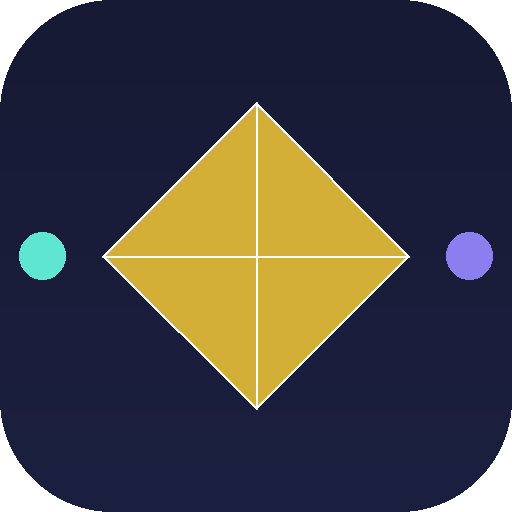
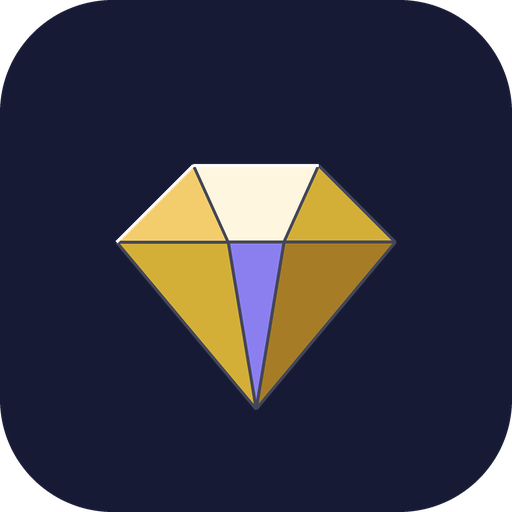
v4.7: diamanti veri, frase del giorno, ordine appuntamenti, fix fuso orario

Changed region(s): [[0.1875, 0.1875, 0.8125, 0.8125], [0.875, 0.4375, 0.9688, 0.5625], [0.0312, 0.4375, 0.125, 0.5625]]

diff --git a/index.html b/index.html
@@ -69,13 +69,15 @@
   .sparkle.teal{ background:var(--teal); box-shadow:0 0 6px var(--teal); }
   @keyframes twinkle{ 0%,100%{opacity:0.12; transform:scale(0.6);} 50%{opacity:1; transform:scale(1.3);} }
   .diamond{
-    position:absolute; background:linear-gradient(135deg, #ffffff 0%, var(--gold-soft) 45%, var(--violet) 100%);
-    box-shadow:0 0 7px rgba(255,255,255,0.5); opacity:0; animation:diamondFade ease-in-out infinite;
+    position:absolute; background:linear-gradient(150deg, #ffffff 0%, var(--gold-soft) 42%, var(--gold) 68%, var(--violet) 100%);
+    clip-path: polygon(30% 6%, 70% 6%, 100% 36%, 50% 100%, 0% 36%);
+    filter: drop-shadow(0 0 4px rgba(255,255,255,0.55));
+    opacity:0; animation:diamondFade ease-in-out infinite;
     pointer-events:none;
   }
   @keyframes diamondFade{
-    0%,100%{ opacity:0; transform:rotate(45deg) scale(0.3); }
-    45%,55%{ opacity:0.85; transform:rotate(45deg) scale(1); }
+    0%,100%{ opacity:0; transform:scale(0.3); }
+    45%,55%{ opacity:0.88; transform:scale(1); }
   }
 
   .app{ position:relative; z-index:1; display:flex; min-height:100vh; }
@@ -134,6 +136,7 @@
   header.topbar{ display:flex; align-items:center; justify-content:space-between; margin-bottom:22px; gap:14px; flex-wrap:wrap; }
   header.topbar h1{ margin:0; font-size:1.5rem; font-weight:800; letter-spacing:0.2px; }
   header.topbar .sub{ color:var(--grey-dim); font-size:0.85rem; margin-top:2px; }
+  .day-quote{ color:var(--gold-soft); font-size:0.8rem; margin-top:5px; font-style:italic; opacity:0.92; max-width:520px; }
   .search-trigger{
     display:flex; align-items:center; gap:8px; padding:9px 14px; border-radius:11px; background:var(--glass);
     border:1px solid var(--glass-brd); color:var(--grey-dim); font-size:0.82rem; cursor:pointer; min-width:220px;
@@ -207,6 +210,17 @@
     backdrop-filter:blur(6px);
   }
   .day-head .cnt{ color:var(--grey-dim); font-weight:600; font-size:0.75rem; }
+
+  .past-wrap{ margin-top:14px; border-top:1px dashed var(--line); padding-top:10px; }
+  .past-toggle{
+    width:100%; display:flex; align-items:center; justify-content:center; gap:8px;
+    background:var(--glass); border:1px solid var(--glass-brd); border-radius:10px; padding:9px 12px;
+    color:var(--grey-dim); font-size:0.8rem; font-weight:700; cursor:pointer; transition:all .15s ease;
+  }
+  .past-toggle:hover{ background:var(--gold-dim); color:var(--gold-soft); }
+  .past-toggle .chev{ transition:transform .15s ease; display:inline-block; }
+  .past-toggle.open .chev{ transform:rotate(180deg); }
+  .past-body{ margin-top:8px; opacity:0.82; }
 
   .appt-row{
     display:grid; grid-template-columns:64px 1.35fr 1.05fr 1.25fr auto auto auto auto; gap:12px; align-items:center;
@@ -489,7 +503,7 @@
 <div class="app">
   <aside>
     <div class="brand">
-      <div class="mark">✨</div>
+      <div class="mark">💎</div>
       <div><b>Perfect Nails Accademy</b><span>Gestionale per onicotecnica</span></div>
     </div>
     <nav>
@@ -515,6 +529,7 @@
       <div>
         <h1>Bentornata ✨</h1>
         <div class="sub" id="today-label"></div>
+        <div class="day-quote" id="day-quote"></div>
       </div>
       <div class="search-trigger" id="open-cmdk">🔍 Cerca clienti, appuntamenti…<kbd>⌘K</kbd></div>
     </header>
@@ -727,7 +742,6 @@ for(let i=0;i<20;i++){
   d.className = 'diamond';
   const size = 6 + Math.random()*6; // 6-12px, non più grande di una "O"
   d.style.width = d.style.height = size+'px';
-  d.style.borderRadius = size>9 ? '2px' : '1.5px';
   d.style.left = Math.random()*100+'%';
   d.style.top = Math.random()*100+'%';
   d.style.animationDuration = (4.5+Math.random()*4)+'s';
@@ -736,6 +750,50 @@ for(let i=0;i<20;i++){
 }
 
 document.getElementById('today-label').textContent = new Date().toLocaleDateString('it-IT', {weekday:'long', day:'numeric', month:'long', year:'numeric'});
+
+// -------- piccola frase del giorno: un pensiero gentile, non richiesto esplicitamente ma pensato --------
+// -------- per accompagnare l'inizio della giornata senza esagerare — cambia ogni giorno, stessa per tutto il giorno --------
+const FRASI_GIORNO = [
+  "Ogni mano che curi oggi porta via un po' di stanchezza e lascia un sorriso.",
+  "Le piccole attenzioni sono quelle che le clienti ricordano di più.",
+  "Un buon lavoro non ha bisogno di fretta: prenditi il tuo tempo, oggi.",
+  "Ogni giornata è un'occasione per far sentire speciale qualcuna.",
+  "La cura che metti nei dettagli si vede, anche quando non lo dici.",
+  "Respira, sorridi, e comincia: il resto viene da sé.",
+  "Chi si prende cura degli altri merita di prendersi cura anche di sé.",
+  "Le mani ben curate raccontano quanto ci tieni: continua così.",
+  "Un passo alla volta, un appuntamento alla volta: va tutto bene.",
+  "La costanza che metti ogni giorno è quella che fa crescere Perfect Nails Accademy.",
+  "Oggi qualcuna uscirà da qui più sicura di sé grazie a te.",
+  "Le giornate piene sono la prova che stai costruendo qualcosa di bello.",
+  "Anche i piccoli gesti — un consiglio, un sorriso — fanno la differenza.",
+  "Sei tu a dare ritmo alla giornata: parti con calma.",
+  "Un lavoro fatto con cura non passa mai inosservato.",
+  "Le clienti tornano per come le fai sentire, non solo per le mani.",
+  "Oggi va bene anche solo fare del proprio meglio, senza strafare.",
+  "La pazienza che metti nei dettagli è il tuo vero talento.",
+  "Ogni cliente che richiami è un pensiero gentile in più.",
+  "Piccoli rituali, grandi risultati: continua a coltivarli.",
+  "Chi cura le mani degli altri ha mani d'oro: non dimenticarlo.",
+  "Anche una giornata tranquilla serve: respira e organizza con calma.",
+  "Il tuo lavoro rende più bella la giornata di qualcun altro. Non è poco.",
+  "Le basi solide di oggi sono i risultati belli di domani.",
+  "Un sorriso sincero vale più di qualsiasi decorazione.",
+  "Sei arrivata fin qui costruendo tutto con le tue mani: sii fiera.",
+  "Oggi come sempre: cura, calma e un pizzico di magia.",
+  "Le clienti affezionate si costruiscono un appuntamento alla volta.",
+  "Non serve essere perfette, basta essere presenti — e tu lo sei.",
+  "La qualità che offri oggi è il ricordo che resta domani.",
+  "Piccoli progressi ogni giorno: è così che si cresce davvero.",
+  "Prenditi un momento per te prima di iniziare: te lo meriti."
+];
+function fraseDelGiorno(){
+  const oggi = new Date();
+  const inizioAnno = new Date(oggi.getFullYear(), 0, 0);
+  const giornoAnno = Math.floor((oggi - inizioAnno) / 86400000);
+  return FRASI_GIORNO[giornoAnno % FRASI_GIORNO.length];
+}
+document.getElementById('day-quote').textContent = '✨ ' + fraseDelGiorno();
 
 // -------- tabs --------
 document.querySelectorAll('.nav-btn').forEach(btn=>{
@@ -897,41 +955,74 @@ function renderAgenda(){
   }
   list.style.display='block'; week.style.display='none'; day.style.display='none';
   list.innerHTML = '';
-  const filtered = filtraAppuntamenti().sort((a,b)=> (a.data+a.ora).localeCompare(b.data+b.ora));
+  const filtered = filtraAppuntamenti();
+  const todayIso = isoDate(new Date());
+  // in arrivo: da oggi in poi, dal più vicino (prossimo) in poi. passati: sotto, ripiegati, dal più recente indietro nel tempo.
+  const upcoming = filtered.filter(a=> a.data >= todayIso).sort((a,b)=> (a.data+a.ora).localeCompare(b.data+b.ora));
+  const past = filtered.filter(a=> a.data < todayIso).sort((a,b)=> (b.data+b.ora).localeCompare(a.data+a.ora));
 
-  const groups = {};
-  filtered.forEach(a=>{ (groups[a.data] = groups[a.data]||[]).push(a); });
-
-  Object.keys(groups).sort().forEach(dateKey=>{
-    const items = groups[dateKey];
-    const dayLabel = dateKey ? new Date(dateKey+'T00:00:00').toLocaleDateString('it-IT', {weekday:'long', day:'numeric', month:'long'}) : 'Senza data';
-    const dg = document.createElement('div');
-    dg.className='day-group';
-    dg.innerHTML = `<div class="day-head">${dayLabel} <span class="cnt">${items.length} appuntamento/i</span></div>`;
-    items.forEach(a=>{
-      const realIdx = appuntamenti.indexOf(a);
-      const cliente = trovaClientePerTel(a.tel);
-      const blDot = cliente && cliente.blacklisted ? `<span class="bl-dot" title="Lista nera: disdette last-minute">⚫</span>` : '';
-      const row = document.createElement('div');
-      row.className='appt-row';
-      row.style.borderLeft = `3px solid ${opColor(a.operatrice)}`;
-      row.innerHTML = `
-        <div class="appt-time">${a.ora}<small style="color:${opColor(a.operatrice)}">${a.operatrice||'—'}</small></div>
-        <div class="appt-client"><b>${a.nome} ${a.cognome}</b>${blDot}${a.note?`<div class="note">${a.note}</div>`:''}</div>
-        <div class="appt-tel">📞 ${a.tel}</div>
-        <div class="appt-serv">${a.servizio}</div>
-        <div class="prom-wrap">
-          <span class="prom ${promClass(a.prom3)}" data-idx="${realIdx}" data-field="prom3">3gg · ${a.prom3}</span>
-          <span class="prom ${promClass(a.prom1)}" data-idx="${realIdx}" data-field="prom1">1gg · ${a.prom1}</span>
-        </div>
-        <span class="badge ${statoClass(a.stato)}" data-stato-idx="${realIdx}" title="Clicca per cambiare stato">${a.stato}</span>
-        <button class="icon-btn edit" data-edit="${realIdx}" title="Modifica">✏</button>
-        <button class="icon-btn" data-del="${realIdx}" title="Elimina">🗑</button>
-      `;
-      dg.appendChild(row);
+  function buildDayGroups(items, showYear){
+    const frag = document.createDocumentFragment();
+    const groups = {};
+    items.forEach(a=>{ (groups[a.data] = groups[a.data]||[]).push(a); });
+    const fmtOpts = showYear
+      ? {weekday:'long', day:'numeric', month:'long', year:'numeric'}
+      : {weekday:'long', day:'numeric', month:'long'};
+    Object.keys(groups).sort().forEach(dateKey=>{
+      const dayItems = groups[dateKey];
+      const dayLabel = dateKey ? new Date(dateKey+'T00:00:00').toLocaleDateString('it-IT', fmtOpts) : 'Senza data';
+      const dg = document.createElement('div');
+      dg.className='day-group';
+      dg.innerHTML = `<div class="day-head">${dayLabel} <span class="cnt">${dayItems.length} appuntamento/i</span></div>`;
+      dayItems.forEach(a=>{
+        const realIdx = appuntamenti.indexOf(a);
+        const cliente = trovaClientePerTel(a.tel);
+        const blDot = cliente && cliente.blacklisted ? `<span class="bl-dot" title="Lista nera: disdette last-minute">⚫</span>` : '';
+        const row = document.createElement('div');
+        row.className='appt-row';
+        row.style.borderLeft = `3px solid ${opColor(a.operatrice)}`;
+        row.innerHTML = `
+          <div class="appt-time">${a.ora}<small style="color:${opColor(a.operatrice)}">${a.operatrice||'—'}</small></div>
+          <div class="appt-client"><b>${a.nome} ${a.cognome}</b>${blDot}${a.note?`<div class="note">${a.note}</div>`:''}</div>
+          <div class="appt-tel">📞 ${a.tel}</div>
+          <div class="appt-serv">${a.servizio}</div>
+          <div class="prom-wrap">
+            <span class="prom ${promClass(a.prom3)}" data-idx="${realIdx}" data-field="prom3">3gg · ${a.prom3}</span>
+            <span class="prom ${promClass(a.prom1)}" data-idx="${realIdx}" data-field="prom1">1gg · ${a.prom1}</span>
+          </div>
+          <span class="badge ${statoClass(a.stato)}" data-stato-idx="${realIdx}" title="Clicca per cambiare stato">${a.stato}</span>
+          <button class="icon-btn edit" data-edit="${realIdx}" title="Modifica">✏</button>
+          <button class="icon-btn" data-del="${realIdx}" title="Elimina">🗑</button>
+        `;
+        dg.appendChild(row);
+      });
+      frag.appendChild(dg);
     });
-    list.appendChild(dg);
-  });
+    return frag;
+  }
+
+  list.appendChild(buildDayGroups(upcoming, false));
+
+  if(past.length){
+    const wrap = document.createElement('div');
+    wrap.className = 'past-wrap';
+    const toggle = document.createElement('button');
+    toggle.type = 'button';
+    toggle.className = 'past-toggle';
+    toggle.innerHTML = `🕓 Appuntamenti passati (${past.length}) <span class="chev">▾</span>`;
+    const pastBody = document.createElement('div');
+    pastBody.className = 'past-body';
+    pastBody.style.display = 'none';
+    pastBody.appendChild(buildDayGroups(past, true));
+    toggle.addEventListener('click', ()=>{
+      const isOpen = pastBody.style.display !== 'none';
+      pastBody.style.display = isOpen ? 'none' : 'block';
+      toggle.classList.toggle('open', !isOpen);
+    });
+    wrap.appendChild(toggle);
+    wrap.appendChild(pastBody);
+    list.appendChild(wrap);
+  }
 
   if(filtered.length===0){ list.innerHTML = '<div class="cmdk-empty">Nessun appuntamento trovato. Aggiungine uno dal modulo qui sopra ✨</div>'; }
 
@@ -982,7 +1073,13 @@ function startOfWeek(d){
   dt.setHours(0,0,0,0);
   return dt;
 }
-function isoDate(d){ return d.toISOString().slice(0,10); }
+// NB: usiamo i componenti data "locali" (getFullYear/getMonth/getDate), non toISOString(),
+// perché toISOString() converte in UTC — in Italia (UTC+1/+2) questo faceva sbagliare "oggi"
+// di un giorno nella prima ora/due dopo la mezzanotte (bug corretto qui, era silenzioso).
+function isoDate(d){
+  const y = d.getFullYear(), m = String(d.getMonth()+1).padStart(2,'0'), day = String(d.getDate()).padStart(2,'0');
+  return `${y}-${m}-${day}`;
+}
 
 function renderSettimana(){
   const el = document.getElementById('ag-week');
@@ -1406,7 +1503,7 @@ function refillSuggerito(dataStr){
   const d = new Date(dataStr+'T00:00:00');
   if(isNaN(d)) return '';
   d.setDate(d.getDate()+24);
-  return d.toISOString().slice(0,10);
+  return isoDate(d);
 }
 function renderTrattamentiHTML(idx){
   const c = clienti[idx];
@@ -1428,7 +1525,7 @@ function renderTrattamentiHTML(idx){
 }
 function openTrattamentoForm(idx){
   const modal = document.getElementById('modal-content');
-  const oggi = new Date().toISOString().slice(0,10);
+  const oggi = isoDate(new Date());
   modal.innerHTML = `
     <button class="modal-close" id="modal-close">✕</button>
     <h3>🧾 Nuovo trattamento</h3>
